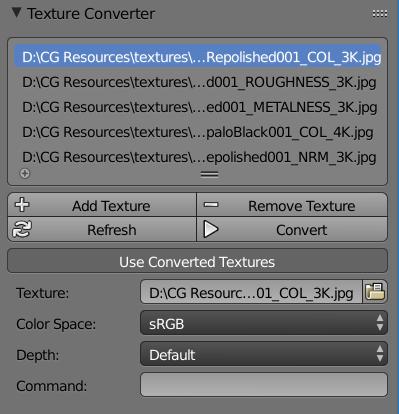
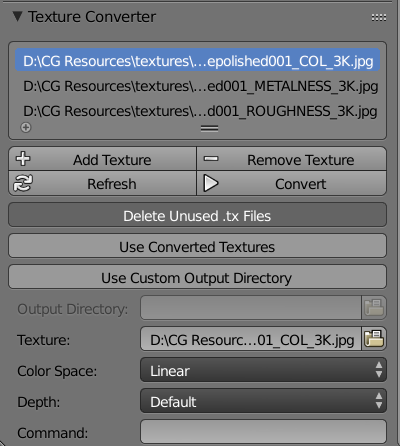
Update docs for texture converter

diff --git a/docs/panels/material/texture_converter.rst b/docs/panels/material/texture_converter.rst
@@ -11,20 +11,26 @@ The texture converter is a utility for converting traditional image formats (JPE
 
 - Texture List:
 	This shows the list of textures in the scene.
-- Use Converted Textures:
-	This tells blenderseed to substitute texture paths with the .tx version during export and rendering.
 - Add Textures:
 	This manually adds a texture entry to the list.
 - Remove Textures:
 	This manually removes the selected texture slot from the list.
 - Refresh Textures:
-	This scans the texture files that are used in the scene and adds them to the list.  Entries will not be duplicated if they already exists.
+	This scans the texture files that are used in the scene and adds them to the list.  Entries will not be duplicated if they already exists.  Entries will also be removed if they are no longer being used in the scene.
 - Convert Textures:
-	This launches maketx and converts all the textures in the list to .tx versions (if they havent already been converted)
+	This launches maketx and converts all the textures in the list to .tx versions (if they haven't already been converted).
+- Delete Unused .tx Files:
+	This will delete any converted .tx files that are no longer being used in the scene (if a node is deleted for instance).
+- Use Converted Textures:
+	This tells blenderseed to substitute texture paths with the .tx version during export and rendering.
+- Use Custom Output Directory:
+	This allows you to put the converter .tx textures into a different directory than the original texture.
+- Output Directory:
+	This is where the .tx files will be placed when 'Use Custom Output Directory' is checked.
 - Texture:
 	This is the filepath of the selected entry in the texture list.  Clicking on the filepath button will open a file selection window.
 - Input Color Space:
-	This parameter tells maketx what color space the original file is in.  If it is anything other than 'linear' the colorspace will be converted during the maketx process.  RGB textures such as color or specular color are usually sRGB.  Bump maps, normal maps, and other greyscale value maps (roughness, metallness) are usually linear, but this may vary depending on the texture source.
+	This parameter tells maketx what color space the original file is in.  If it is anything other than 'linear' the colorspace will be converted during the maketx process.  RGB textures such as color or specular color are usually sRGB.  Bump maps, normal maps, and other grayscale value maps (roughness, metallness) are usually linear, but this may vary depending on the texture source.
 - Output Bit Depth:
 	This allows you to manually specify the bit depth of the .tx file.  Leaving it at 'default' will set the bit depth to the same size as the input.
 - Additional Commands:
